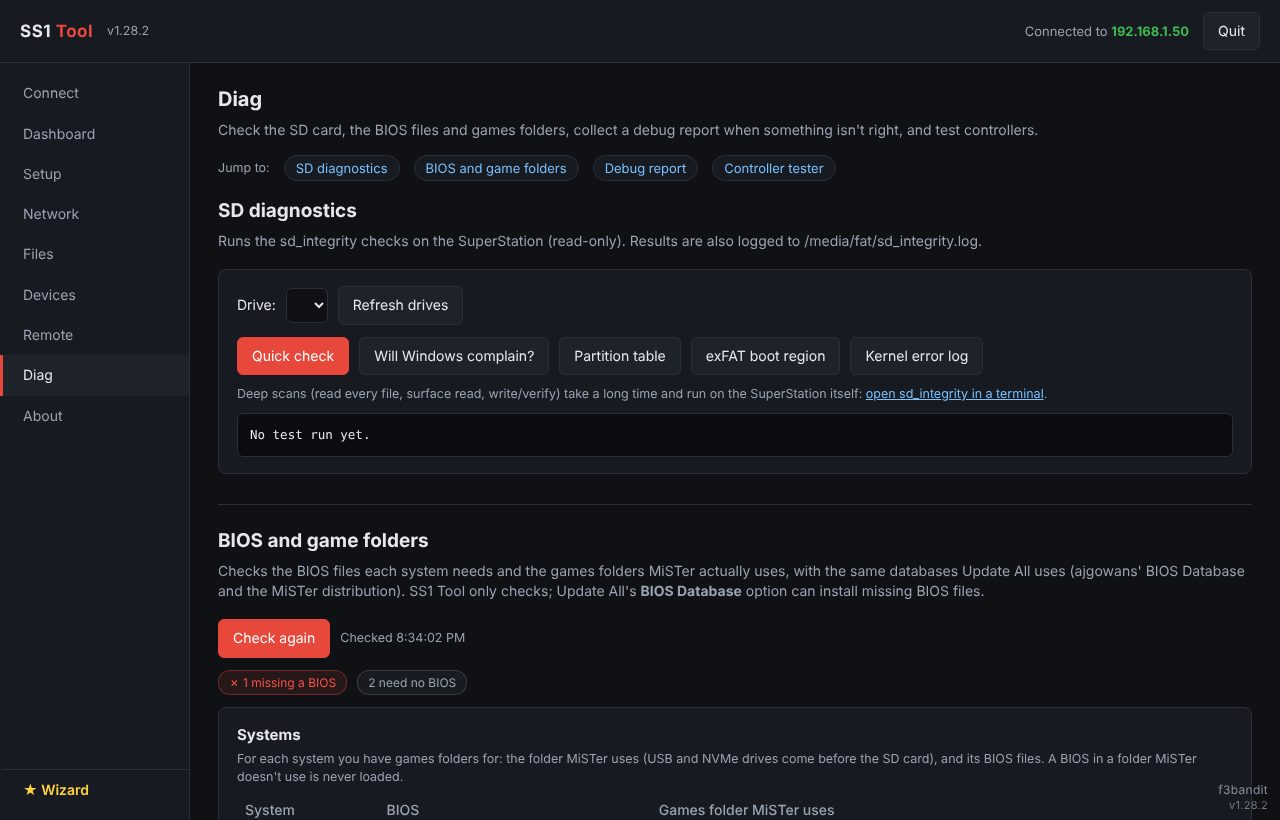
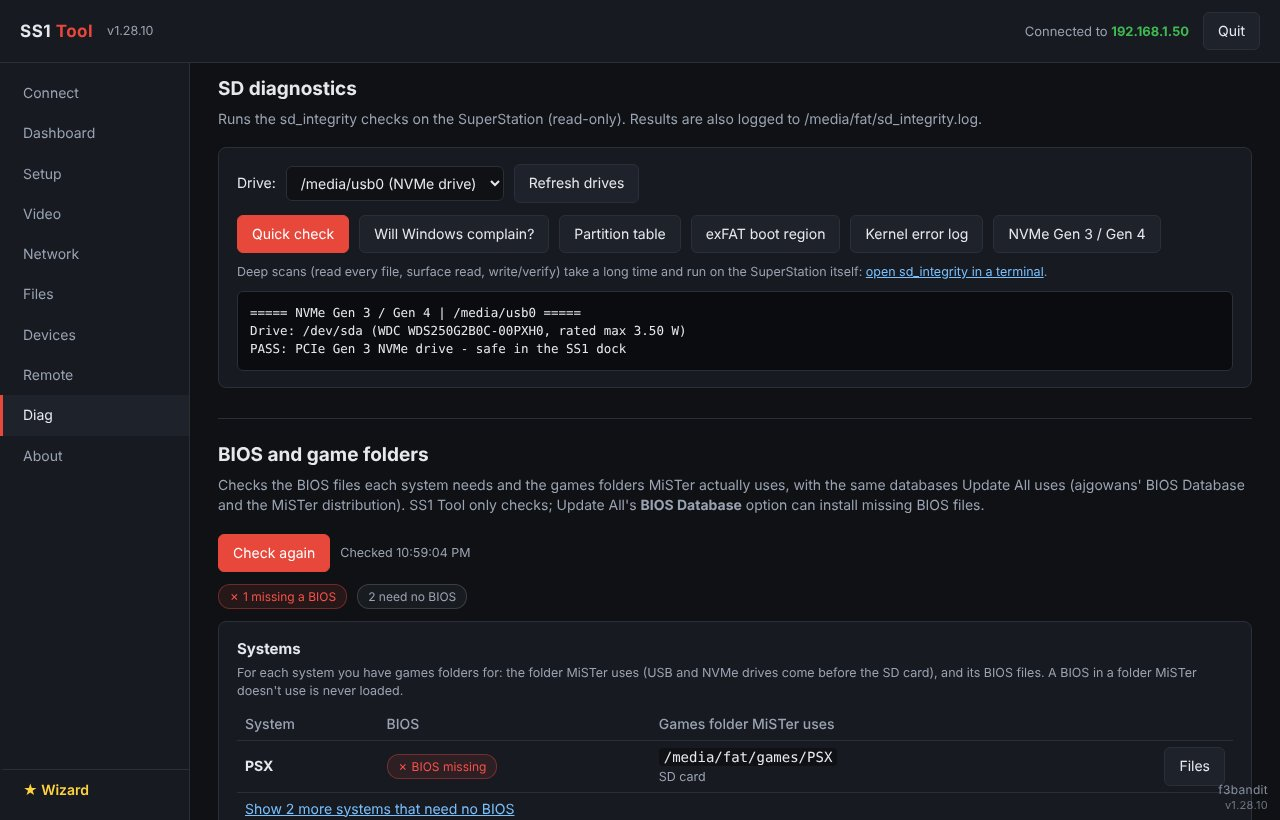
Google Play only: Lemon Squeezy removed; Windows page for SS1 Tool 1.28.10
- EULA 1.2 (2026-10-14): Android is sold only on Google Play (no website
  purchases, license keys or Lemon Squeezy); privacy and refund policies
  updated the same way
- android/latest.json points old test builds to the Play Store
- Windows page: system status screenshot with the NVMe Gen 3 / Gen 4 check,
  new Setup and Diag screenshots, Gen 4 drive warning in the feature list

Claude-Session: https://claude.ai/code/session_01VLHabFJYs6ZU2WP3HXjTGE

diff --git a/pages/legal/eula.html b/pages/legal/eula.html
@@ -2,13 +2,13 @@
 <article class="legal">
 <section class="hero">
  <h1>End User License Agreement</h1>
- <p class="muted">For SS1 Tool for Windows and SS1 Tool for Android · Version <span data-eula-version>1.1 (2026-10-10)</span> · Effective October 10, 2026</p>
+ <p class="muted">For SS1 Tool for Windows and SS1 Tool for Android · Version <span data-eula-version>1.2 (2026-10-14)</span> · Effective October 14, 2026</p>
 </section>
 
 <div class="note"><b>The short version.</b> SS1 Tool is an unofficial tool provided "as is". It changes settings and files on your SuperStation One and can erase SD cards. You use it at your own risk and you are solely responsible for your devices, your data and your backups. Our total liability is limited to what you paid for the app. The full terms below are what apply.</div>
 
 <ol class="toc">
- <li><a href="#agreement">Agreement</a></li><li><a href="#who">Who we are</a></li><li><a href="#unofficial">Unofficial tool, trademarks</a></li><li><a href="#license">Your license</a></li><li><a href="#keys">License keys (Android)</a></li><li><a href="#play">Google Play</a></li><li><a href="#restrictions">What you may not do</a></li><li><a href="#risk">Your responsibility</a></li><li><a href="#content">Third-party content and services</a></li><li><a href="#reports">Reports and logs</a></li><li><a href="#updates">Updates and support</a></li><li><a href="#versions">Supported Android versions</a></li><li><a href="#warranty">No warranty</a></li><li><a href="#liability">Limitation of liability</a></li><li><a href="#indemnity">Indemnity</a></li><li><a href="#termination">Termination</a></li><li><a href="#refunds">Payments and refunds</a></li><li><a href="#law">Governing law</a></li><li><a href="#general">General</a></li><li><a href="#contact">Contact</a></li>
+ <li><a href="#agreement">Agreement</a></li><li><a href="#who">Who we are</a></li><li><a href="#unofficial">Unofficial tool, trademarks</a></li><li><a href="#license">Your license</a></li><li><a href="#keys">Buying on Google Play</a></li><li><a href="#play">Google Play</a></li><li><a href="#restrictions">What you may not do</a></li><li><a href="#risk">Your responsibility</a></li><li><a href="#content">Third-party content and services</a></li><li><a href="#reports">Reports and logs</a></li><li><a href="#updates">Updates and support</a></li><li><a href="#versions">Supported Android versions</a></li><li><a href="#warranty">No warranty</a></li><li><a href="#liability">Limitation of liability</a></li><li><a href="#indemnity">Indemnity</a></li><li><a href="#termination">Termination</a></li><li><a href="#refunds">Payments and refunds</a></li><li><a href="#law">Governing law</a></li><li><a href="#general">General</a></li><li><a href="#contact">Contact</a></li>
 </ol>
 
 <h2 id="agreement">1. Agreement</h2>
@@ -26,22 +26,14 @@
 <p>The Software is licensed, not sold. We and our licensors keep all rights, title and interest in it. Subject to this Agreement, we give you a limited, personal, non-exclusive, non-transferable, revocable license to:</p>
 <ul>
  <li><b>SS1 Tool for Windows</b> (free): install and use it on computers you own or control, for personal, non-commercial use.</li>
- <li><b>SS1 Tool for Android</b> (paid), <b>bought on our website</b>: install and use it on up to <b>3 Android devices you own or control</b>, for personal, non-commercial use, after you pay for it and activate it with your license key.</li>
- <li><b>SS1 Tool for Android</b> (paid), <b>bought on Google Play</b>: install and use it on Android devices signed in to the Google account you bought it with, as Google Play allows, for personal, non-commercial use.</li>
+ <li><b>SS1 Tool for Android</b> (paid, sold only on Google Play): install and use it on Android devices signed in to the Google account you bought it with, as Google Play allows, for personal, non-commercial use.</li>
 </ul>
 <p>Open-source components included in the Software are licensed under their own licenses, which are listed in the Software. Nothing in this Agreement limits your rights under those licenses.</p>
 
-<h2 id="keys">5. License keys (Android, bought on our website)</h2>
-<ul>
- <li>Your license key is for you alone. You may not share, publish, sell or transfer it.</li>
- <li>The app checks your key with our reseller, Lemon Squeezy, when you activate it and about once a week afterwards when your device is online. This sends the key and a device label (such as "Pixel 10"), as described in the <a href="privacy.html">Privacy Policy</a>.</li>
- <li>The app works without an internet connection, but if it hasn't been able to check your key for 30 days, it asks you to connect to the internet once before you can keep using it.</li>
- <li>We may deactivate a key that has been refunded, charged back, shared, or used beyond its device limit, or that was obtained by fraud.</li>
-</ul>
+<h2 id="keys">5. Buying on Google Play</h2><span id="play"></span>
 
-<h3 id="play">Bought on Google Play</h3>
 <ul>
- <li>No license key is used: your purchase is linked to your Google account, and the app gets updates from Google Play.</li>
+ <li>SS1 Tool for Android is sold only on Google Play. No license key is used: your purchase is linked to your Google account, and the app gets updates from Google Play.</li>
  <li>Google Play's own terms (the Google Play Terms of Service) also apply to buying, downloading and updating the app. If they conflict with this Agreement about the purchase itself, Google Play's terms apply. This Agreement is between you and us, not Google, and we, not Google, are responsible for the app.</li>
 </ul>
 
@@ -49,7 +41,7 @@
 <p>Except where the law gives you a right we can't take away, you may not:</p>
 <ul>
  <li>copy, share, distribute, sell, rent, lend or sublicense the Software or SS1 Tool for Android's installation file (APK);</li>
- <li>remove, bypass or tamper with the license check, or help anyone else to;</li>
+ <li>bypass Google Play's purchase or distribution of SS1 Tool for Android, or help anyone else to;</li>
  <li>modify, decompile, reverse engineer or make derivative works of SS1 Tool for Android;</li>
  <li>remove copyright, trademark or license notices;</li>
  <li>use the Software on devices or networks you don't own or aren't allowed to access, or for anything unlawful;</li>
@@ -69,7 +61,7 @@
 <p>Features such as automatic undo of video changes, backups and safety checks are provided to help you, but <b>may not work in every case</b>. You must not rely on them in place of your own backups.</p>
 
 <h2 id="content">8. Third-party content and services</h2>
-<p>The Software can use or download things made by other people: Update All, MiSTer distributions, cores, community scripts, the SS1 SD Card Installer, and services such as GitHub, RetroAchievements, TheGamesDB and Lemon Squeezy. These are provided by their owners under their own terms. We don't control them, we aren't responsible for them, and we make no promises about them. You choose whether to use them.</p>
+<p>The Software can use or download things made by other people: Update All, MiSTer distributions, cores, community scripts, the SS1 SD Card Installer, and services such as GitHub, RetroAchievements, TheGamesDB and Google Play. These are provided by their owners under their own terms. We don't control them, we aren't responsible for them, and we make no promises about them. You choose whether to use them.</p>
 <p>The Software does not include or provide any games, BIOS files or other copyrighted content. You are responsible for having the right to use any such content on your SuperStation.</p>
 
 <h2 id="reports">9. Reports and logs</h2>
@@ -94,10 +86,10 @@
 <p>To the extent allowed by law, you agree to defend, indemnify and hold us harmless from any claims, losses, damages and costs (including reasonable legal fees) brought by a third party that arise from your misuse of the Software, your breach of this Agreement, or your violation of any law or anyone else's rights.</p>
 
 <h2 id="termination">15. Termination</h2>
-<p>This Agreement applies until it ends. You may end it at any time by deleting the Software. It ends automatically, without notice, if you break it; we may also deactivate your license key in that case. When it ends, you must stop using and delete the Software. Sections 3, 6–9 and 12–18 continue to apply after it ends.</p>
+<p>This Agreement applies until it ends. You may end it at any time by deleting the Software. It ends automatically, without notice, if you break it. When it ends, you must stop using and delete the Software. Sections 3, 6–9 and 12–18 continue to apply after it ends.</p>
 
 <h2 id="refunds">16. Payments and refunds</h2>
-<p>On our website, SS1 Tool for Android is sold through our reseller and merchant of record, <b>Lemon Squeezy</b>, which handles payment, sales tax and VAT under its own terms. On Google Play, Google handles payment and taxes under Google Play's terms. Refunds are covered by our <a href="refunds.html">Refund Policy</a>. A refund ends your license; for a website purchase it also deactivates your key.</p>
+<p>SS1 Tool for Android is sold only on Google Play; Google handles payment and taxes under Google Play's terms. Refunds are covered by our <a href="refunds.html">Refund Policy</a>. A refund ends your license.</p>
 
 <h2 id="law">17. Governing law</h2>
 <p>This Agreement is governed by the laws of the State of Ohio, USA, without regard to its conflict-of-law rules. Any dispute will be brought in the state or federal courts located in Ohio, and you and we agree to their jurisdiction. If you are a consumer living outside the USA, you keep any protections given to you by the mandatory laws of the country you live in. The United Nations Convention on Contracts for the International Sale of Goods does not apply.</p>
@@ -113,5 +105,5 @@
 </ul>
 
 <h2 id="contact">19. Contact</h2>
-<p>f3bandit, trading as F3 Digital Systems · Questions about this Agreement: email <a href="mailto:f3.digital.systems@gmail.com">f3.digital.systems@gmail.com</a>, or open an issue at <a href="https://github.com/f3bandit/ss1_tool/issues">github.com/f3bandit/ss1_tool/issues</a>. For orders, use the contact link in your Lemon Squeezy receipt.</p>
+<p>f3bandit, trading as F3 Digital Systems · Questions about this Agreement: email <a href="mailto:f3.digital.systems@gmail.com">f3.digital.systems@gmail.com</a>, or open an issue at <a href="https://github.com/f3bandit/ss1_tool/issues">github.com/f3bandit/ss1_tool/issues</a>. For a Google Play order, include its order number (it starts with GPA.).</p>
 </article>

diff --git a/legal/eula.html b/legal/eula.html
@@ -18,13 +18,13 @@
 <article class="legal">
 <section class="hero">
  <h1>End User License Agreement</h1>
- <p class="muted">For SS1 Tool for Windows and SS1 Tool for Android · Version <span data-eula-version>1.1 (2026-10-10)</span> · Effective October 10, 2026</p>
+ <p class="muted">For SS1 Tool for Windows and SS1 Tool for Android · Version <span data-eula-version>1.2 (2026-10-14)</span> · Effective October 14, 2026</p>
 </section>
 
 <div class="note"><b>The short version.</b> SS1 Tool is an unofficial tool provided "as is". It changes settings and files on your SuperStation One and can erase SD cards. You use it at your own risk and you are solely responsible for your devices, your data and your backups. Our total liability is limited to what you paid for the app. The full terms below are what apply.</div>
 
 <ol class="toc">
- <li><a href="#agreement">Agreement</a></li><li><a href="#who">Who we are</a></li><li><a href="#unofficial">Unofficial tool, trademarks</a></li><li><a href="#license">Your license</a></li><li><a href="#keys">License keys (Android)</a></li><li><a href="#play">Google Play</a></li><li><a href="#restrictions">What you may not do</a></li><li><a href="#risk">Your responsibility</a></li><li><a href="#content">Third-party content and services</a></li><li><a href="#reports">Reports and logs</a></li><li><a href="#updates">Updates and support</a></li><li><a href="#versions">Supported Android versions</a></li><li><a href="#warranty">No warranty</a></li><li><a href="#liability">Limitation of liability</a></li><li><a href="#indemnity">Indemnity</a></li><li><a href="#termination">Termination</a></li><li><a href="#refunds">Payments and refunds</a></li><li><a href="#law">Governing law</a></li><li><a href="#general">General</a></li><li><a href="#contact">Contact</a></li>
+ <li><a href="#agreement">Agreement</a></li><li><a href="#who">Who we are</a></li><li><a href="#unofficial">Unofficial tool, trademarks</a></li><li><a href="#license">Your license</a></li><li><a href="#keys">Buying on Google Play</a></li><li><a href="#play">Google Play</a></li><li><a href="#restrictions">What you may not do</a></li><li><a href="#risk">Your responsibility</a></li><li><a href="#content">Third-party content and services</a></li><li><a href="#reports">Reports and logs</a></li><li><a href="#updates">Updates and support</a></li><li><a href="#versions">Supported Android versions</a></li><li><a href="#warranty">No warranty</a></li><li><a href="#liability">Limitation of liability</a></li><li><a href="#indemnity">Indemnity</a></li><li><a href="#termination">Termination</a></li><li><a href="#refunds">Payments and refunds</a></li><li><a href="#law">Governing law</a></li><li><a href="#general">General</a></li><li><a href="#contact">Contact</a></li>
 </ol>
 
 <h2 id="agreement">1. Agreement</h2>
@@ -42,16 +42,14 @@
 <p>The Software is licensed, not sold. We and our licensors keep all rights, title and interest in it. Subject to this Agreement, we give you a limited, personal, non-exclusive, non-transferable, revocable license to:</p>
 <ul>
  <li><b>SS1 Tool for Windows</b> (free): install and use it on computers you own or control, for personal, non-commercial use.</li>
- <li><b>SS1 Tool for Android</b> (paid), <b>bought on our website</b>: install and use it on up to <b>3 Android devices you own or control</b>, for personal, non-commercial use, after you pay for it and activate it with your license key.</li>
- <li><b>SS1 Tool for Android</b> (paid), <b>bought on Google Play</b>: install and use it on Android devices signed in to the Google account you bought it with, as Google Play allows, for personal, non-commercial use.</li>
+ <li><b>SS1 Tool for Android</b> (paid, sold only on Google Play): install and use it on Android devices signed in to the Google account you bought it with, as Google Play allows, for personal, non-commercial use.</li>
 </ul>
 <p>Open-source components included in the Software are licensed under their own licenses, which are listed in the Software. Nothing in this Agreement limits your rights under those licenses.</p>
 
-<h2 id="keys">5. License keys (Android)</h2>
+<h2 id="keys">5. Buying on Google Play</h2><span id="play"></span>
 
-<h3 id="play">Bought on Google Play</h3>
 <ul>
- <li>No license key is used: your purchase is linked to your Google account, and the app gets updates from Google Play.</li>
+ <li>SS1 Tool for Android is sold only on Google Play. No license key is used: your purchase is linked to your Google account, and the app gets updates from Google Play.</li>
  <li>Google Play's own terms (the Google Play Terms of Service) also apply to buying, downloading and updating the app. If they conflict with this Agreement about the purchase itself, Google Play's terms apply. This Agreement is between you and us, not Google, and we, not Google, are responsible for the app.</li>
 </ul>
 
@@ -59,7 +57,7 @@
 <p>Except where the law gives you a right we can't take away, you may not:</p>
 <ul>
  <li>copy, share, distribute, sell, rent, lend or sublicense the Software or SS1 Tool for Android's installation file (APK);</li>
- <li>remove, bypass or tamper with the license check, or help anyone else to;</li>
+ <li>bypass Google Play's purchase or distribution of SS1 Tool for Android, or help anyone else to;</li>
  <li>modify, decompile, reverse engineer or make derivative works of SS1 Tool for Android;</li>
  <li>remove copyright, trademark or license notices;</li>
  <li>use the Software on devices or networks you don't own or aren't allowed to access, or for anything unlawful;</li>
@@ -79,7 +77,7 @@
 <p>Features such as automatic undo of video changes, backups and safety checks are provided to help you, but <b>may not work in every case</b>. You must not rely on them in place of your own backups.</p>
 
 <h2 id="content">8. Third-party content and services</h2>
-<p>The Software can use or download things made by other people: Update All, MiSTer distributions, cores, community scripts, the SS1 SD Card Installer, and services such as GitHub, RetroAchievements, TheGamesDB and Lemon Squeezy. These are provided by their owners under their own terms. We don't control them, we aren't responsible for them, and we make no promises about them. You choose whether to use them.</p>
+<p>The Software can use or download things made by other people: Update All, MiSTer distributions, cores, community scripts, the SS1 SD Card Installer, and services such as GitHub, RetroAchievements, TheGamesDB and Google Play. These are provided by their owners under their own terms. We don't control them, we aren't responsible for them, and we make no promises about them. You choose whether to use them.</p>
 <p>The Software does not include or provide any games, BIOS files or other copyrighted content. You are responsible for having the right to use any such content on your SuperStation.</p>
 
 <h2 id="reports">9. Reports and logs</h2>
@@ -104,10 +102,10 @@
 <p>To the extent allowed by law, you agree to defend, indemnify and hold us harmless from any claims, losses, damages and costs (including reasonable legal fees) brought by a third party that arise from your misuse of the Software, your breach of this Agreement, or your violation of any law or anyone else's rights.</p>
 
 <h2 id="termination">15. Termination</h2>
-<p>This Agreement applies until it ends. You may end it at any time by deleting the Software. It ends automatically, without notice, if you break it; we may also deactivate your license key in that case. When it ends, you must stop using and delete the Software. Sections 3, 6–9 and 12–18 continue to apply after it ends.</p>
+<p>This Agreement applies until it ends. You may end it at any time by deleting the Software. It ends automatically, without notice, if you break it. When it ends, you must stop using and delete the Software. Sections 3, 6–9 and 12–18 continue to apply after it ends.</p>
 
 <h2 id="refunds">16. Payments and refunds</h2>
-<p>On our website, SS1 Tool for Android is sold through our reseller and merchant of record, <b>Lemon Squeezy</b>, which handles payment, sales tax and VAT under its own terms. On Google Play, Google handles payment and taxes under Google Play's terms. Refunds are covered by our <a href="refunds.html">Refund Policy</a>. A refund ends your license; for a website purchase it also deactivates your key.</p>
+<p>SS1 Tool for Android is sold only on Google Play; Google handles payment and taxes under Google Play's terms. Refunds are covered by our <a href="refunds.html">Refund Policy</a>. A refund ends your license.</p>
 
 <h2 id="law">17. Governing law</h2>
 <p>This Agreement is governed by the laws of the State of Ohio, USA, without regard to its conflict-of-law rules. Any dispute will be brought in the state or federal courts located in Ohio, and you and we agree to their jurisdiction. If you are a consumer living outside the USA, you keep any protections given to you by the mandatory laws of the country you live in. The United Nations Convention on Contracts for the International Sale of Goods does not apply.</p>
@@ -123,7 +121,7 @@
 </ul>
 
 <h2 id="contact">19. Contact</h2>
-<p>f3bandit, trading as F3 Digital Systems · Questions about this Agreement: email <a href="mailto:f3.digital.systems@gmail.com">f3.digital.systems@gmail.com</a>, or open an issue at <a href="https://github.com/f3bandit/ss1_tool/issues">github.com/f3bandit/ss1_tool/issues</a>. For orders, use the contact link in your Lemon Squeezy receipt.</p>
+<p>f3bandit, trading as F3 Digital Systems · Questions about this Agreement: email <a href="mailto:f3.digital.systems@gmail.com">f3.digital.systems@gmail.com</a>, or open an issue at <a href="https://github.com/f3bandit/ss1_tool/issues">github.com/f3bandit/ss1_tool/issues</a>. For a Google Play order, include its order number (it starts with GPA.).</p>
 </article>
 
 </main>

diff --git a/legal/privacy.html b/legal/privacy.html
@@ -18,7 +18,7 @@
 <article class="legal">
 <section class="hero">
  <h1>Privacy Policy</h1>
- <p class="muted">For SS1 Tool for Windows, SS1 Tool for Android and this website · Effective October 10, 2026</p>
+ <p class="muted">For SS1 Tool for Windows, SS1 Tool for Android and this website · Effective October 14, 2026</p>
 </section>
 
 <div class="note info"><b>The short version.</b> We will never sell, rent or trade your data. The apps have no ads, no analytics and no tracking, and they never collect personal data from your phone or PC. They talk to your SuperStation over your own network, and only go to the internet for features you use. Reports are never sent automatically.</div>
@@ -46,11 +46,9 @@
 <ul>
  <li><b>Your SuperStation One</b>, over your home network (SSH), with the login you enter: to read its status and make the changes you ask for. <b>Find my SuperStation</b> reads the SSH greeting and network name of devices on your local network; it never tries to sign in to them.</li>
  <li><b>GitHub</b> (operated by GitHub, Inc.): the apps read the Linux update advisory, check for SS1 Tool updates (Windows), and download Update All, scripts, the SD Card Installer and the MiSTer and BIOS databases when you use those features. GitHub sees your IP address, as with any website.</li>
- <li><b>This website</b> (ss1-tools.github.io, hosted on GitHub Pages): when SS1 Tool for Android (bought on our website) opens, and when you tap <b>Check for updates</b>, it reads a small file listing the latest version. Nothing about you or your device is sent.</li>
  <li><b>RetroAchievements</b> (retroachievements.org): only when you test or save a RetroAchievements login, the username and password you entered are sent to RetroAchievements to check them. The login token it returns isn't kept.</li>
  <li><b>TheGamesDB</b>: only when you test an API key you entered, the key is sent to TheGamesDB.</li>
- <li><b>Google Play</b> (SS1 Tool for Android bought on Google Play): Google handles the purchase, installs and updates under Google's privacy policy. The app doesn't contact Lemon Squeezy or our website for license or update checks; Google Play's own services on your device may, as they do for every Play app.</li>
- <li><b>Lemon Squeezy</b> (SS1 Tool for Android bought on our website only): when you activate your license, and about once a week afterwards to check it (at least once every 30 days), the app sends your license key, a device label (your phone's model name, such as "Pixel 10") and an activation ID to Lemon Squeezy. Lemon Squeezy tells the app whether the key is valid.</li>
+ <li><b>Google Play</b> (SS1 Tool for Android is sold only on Google Play): Google handles the purchase, installs and updates under Google's privacy policy. The app doesn't contact our website or any other store for license or update checks; Google Play's own services on your device may, as they do for every Play app.</li>
 </ul>
 <p>Those services handle data under their own privacy policies.</p>
 
@@ -59,18 +57,16 @@
 <p>The apps remove passwords, keys, network names and IP and MAC addresses they recognise, and show you the whole report before you save or share it. If you post a report on GitHub, it becomes public under GitHub's terms. Please read reports before sharing them.</p>
 
 <h2>Buying SS1 Tool for Android</h2>
-<p>On Google Play, Google processes your purchase under its own privacy policy. We receive the order details Google shares with developers (such as the order number, country and price), and use them only for your order, refunds and support.</p>
-<p>On our website:</p>
-<p>Purchases are handled by <b>Lemon Squeezy</b>, our reseller and merchant of record. Lemon Squeezy collects your name, email address, billing country and payment details to process the order, under its own privacy policy. We receive the order details Lemon Squeezy shares with sellers (such as your name, email address, country and order) so we can provide your license, support and refunds. We don't receive your full card details. We use this information only for your order and support, and keep it as long as needed for that and for tax and legal records.</p>
+<p>SS1 Tool for Android is sold only on Google Play. Google processes your purchase under its own privacy policy. We receive the order details Google shares with developers (such as the order number, country and price), and use them only for your order, refunds and support.</p>
 
 <h2>This website</h2>
-<p>This website is hosted on GitHub Pages. It uses no cookies, analytics or trackers. GitHub may log visitors' IP addresses for security, under GitHub's privacy statement. The agreement boxes on this site aren't stored; when you buy, the agreement version you accepted is added to your Lemon Squeezy order.</p>
+<p>This website is hosted on GitHub Pages. It uses no cookies, analytics or trackers. GitHub may log visitors' IP addresses for security, under GitHub's privacy statement. The agreement boxes on this site aren't stored.</p>
 
 <h2>Children</h2>
 <p>The apps aren't directed at children under 13, and we don't knowingly collect data from children.</p>
 
 <h2>Your rights</h2>
-<p>Depending on where you live, you may have rights to access, correct or delete personal data about you. Because the apps keep data only on your device, you can delete it yourself. For order data we hold, contact us and we'll help. You can also contact Lemon Squeezy about data it holds.</p>
+<p>Depending on where you live, you may have rights to access, correct or delete personal data about you. Because the apps keep data only on your device, you can delete it yourself. For order data we hold, contact us and we'll help. You can also contact Google about data Google Play holds.</p>
 
 <h2>Security</h2>
 <p>The apps only accept connections from the device they run on, protected by a random session token. SuperStation connections use SSH. Use the apps only on networks you trust.</p>
@@ -79,7 +75,7 @@
 <p>If we change this policy, we'll update the date at the top. If a change affects what the apps send or where, we'll say so in the release notes.</p>
 
 <h2>Contact</h2>
-<p>f3bandit, trading as F3 Digital Systems · Privacy questions: email <a href="mailto:f3.digital.systems@gmail.com">f3.digital.systems@gmail.com</a>, or open an issue at <a href="https://github.com/f3bandit/ss1_tool/issues">github.com/f3bandit/ss1_tool/issues</a>, or use the contact link in your Lemon Squeezy receipt for anything about your order.</p>
+<p>f3bandit, trading as F3 Digital Systems · Privacy questions: email <a href="mailto:f3.digital.systems@gmail.com">f3.digital.systems@gmail.com</a>, or open an issue at <a href="https://github.com/f3bandit/ss1_tool/issues">github.com/f3bandit/ss1_tool/issues</a>. For a Google Play order, include its order number (it starts with GPA.).</p>
 </article>
 
 </main>

diff --git a/pages/legal/privacy.html b/pages/legal/privacy.html
@@ -2,7 +2,7 @@
 <article class="legal">
 <section class="hero">
  <h1>Privacy Policy</h1>
- <p class="muted">For SS1 Tool for Windows, SS1 Tool for Android and this website · Effective October 10, 2026</p>
+ <p class="muted">For SS1 Tool for Windows, SS1 Tool for Android and this website · Effective October 14, 2026</p>
 </section>
 
 <div class="note info"><b>The short version.</b> We will never sell, rent or trade your data. The apps have no ads, no analytics and no tracking, and they never collect personal data from your phone or PC. They talk to your SuperStation over your own network, and only go to the internet for features you use. Reports are never sent automatically.</div>
@@ -30,11 +30,9 @@
 <ul>
  <li><b>Your SuperStation One</b>, over your home network (SSH), with the login you enter: to read its status and make the changes you ask for. <b>Find my SuperStation</b> reads the SSH greeting and network name of devices on your local network; it never tries to sign in to them.</li>
  <li><b>GitHub</b> (operated by GitHub, Inc.): the apps read the Linux update advisory, check for SS1 Tool updates (Windows), and download Update All, scripts, the SD Card Installer and the MiSTer and BIOS databases when you use those features. GitHub sees your IP address, as with any website.</li>
- <li><b>This website</b> (ss1-tools.github.io, hosted on GitHub Pages): when SS1 Tool for Android (bought on our website) opens, and when you tap <b>Check for updates</b>, it reads a small file listing the latest version. Nothing about you or your device is sent.</li>
  <li><b>RetroAchievements</b> (retroachievements.org): only when you test or save a RetroAchievements login, the username and password you entered are sent to RetroAchievements to check them. The login token it returns isn't kept.</li>
  <li><b>TheGamesDB</b>: only when you test an API key you entered, the key is sent to TheGamesDB.</li>
- <li><b>Google Play</b> (SS1 Tool for Android bought on Google Play): Google handles the purchase, installs and updates under Google's privacy policy. The app doesn't contact Lemon Squeezy or our website for license or update checks; Google Play's own services on your device may, as they do for every Play app.</li>
- <li><b>Lemon Squeezy</b> (SS1 Tool for Android bought on our website only): when you activate your license, and about once a week afterwards to check it (at least once every 30 days), the app sends your license key, a device label (your phone's model name, such as "Pixel 10") and an activation ID to Lemon Squeezy. Lemon Squeezy tells the app whether the key is valid.</li>
+ <li><b>Google Play</b> (SS1 Tool for Android is sold only on Google Play): Google handles the purchase, installs and updates under Google's privacy policy. The app doesn't contact our website or any other store for license or update checks; Google Play's own services on your device may, as they do for every Play app.</li>
 </ul>
 <p>Those services handle data under their own privacy policies.</p>
 
@@ -43,18 +41,16 @@
 <p>The apps remove passwords, keys, network names and IP and MAC addresses they recognise, and show you the whole report before you save or share it. If you post a report on GitHub, it becomes public under GitHub's terms. Please read reports before sharing them.</p>
 
 <h2>Buying SS1 Tool for Android</h2>
-<p>On Google Play, Google processes your purchase under its own privacy policy. We receive the order details Google shares with developers (such as the order number, country and price), and use them only for your order, refunds and support.</p>
-<p>On our website:</p>
-<p>Purchases are handled by <b>Lemon Squeezy</b>, our reseller and merchant of record. Lemon Squeezy collects your name, email address, billing country and payment details to process the order, under its own privacy policy. We receive the order details Lemon Squeezy shares with sellers (such as your name, email address, country and order) so we can provide your license, support and refunds. We don't receive your full card details. We use this information only for your order and support, and keep it as long as needed for that and for tax and legal records.</p>
+<p>SS1 Tool for Android is sold only on Google Play. Google processes your purchase under its own privacy policy. We receive the order details Google shares with developers (such as the order number, country and price), and use them only for your order, refunds and support.</p>
 
 <h2>This website</h2>
-<p>This website is hosted on GitHub Pages. It uses no cookies, analytics or trackers. GitHub may log visitors' IP addresses for security, under GitHub's privacy statement. The agreement boxes on this site aren't stored; when you buy, the agreement version you accepted is added to your Lemon Squeezy order.</p>
+<p>This website is hosted on GitHub Pages. It uses no cookies, analytics or trackers. GitHub may log visitors' IP addresses for security, under GitHub's privacy statement. The agreement boxes on this site aren't stored.</p>
 
 <h2>Children</h2>
 <p>The apps aren't directed at children under 13, and we don't knowingly collect data from children.</p>
 
 <h2>Your rights</h2>
-<p>Depending on where you live, you may have rights to access, correct or delete personal data about you. Because the apps keep data only on your device, you can delete it yourself. For order data we hold, contact us and we'll help. You can also contact Lemon Squeezy about data it holds.</p>
+<p>Depending on where you live, you may have rights to access, correct or delete personal data about you. Because the apps keep data only on your device, you can delete it yourself. For order data we hold, contact us and we'll help. You can also contact Google about data Google Play holds.</p>
 
 <h2>Security</h2>
 <p>The apps only accept connections from the device they run on, protected by a random session token. SuperStation connections use SSH. Use the apps only on networks you trust.</p>
@@ -63,5 +59,5 @@
 <p>If we change this policy, we'll update the date at the top. If a change affects what the apps send or where, we'll say so in the release notes.</p>
 
 <h2>Contact</h2>
-<p>f3bandit, trading as F3 Digital Systems · Privacy questions: email <a href="mailto:f3.digital.systems@gmail.com">f3.digital.systems@gmail.com</a>, or open an issue at <a href="https://github.com/f3bandit/ss1_tool/issues">github.com/f3bandit/ss1_tool/issues</a>, or use the contact link in your Lemon Squeezy receipt for anything about your order.</p>
+<p>f3bandit, trading as F3 Digital Systems · Privacy questions: email <a href="mailto:f3.digital.systems@gmail.com">f3.digital.systems@gmail.com</a>, or open an issue at <a href="https://github.com/f3bandit/ss1_tool/issues">github.com/f3bandit/ss1_tool/issues</a>. For a Google Play order, include its order number (it starts with GPA.).</p>
 </article>

diff --git a/legal/refunds.html b/legal/refunds.html
@@ -18,20 +18,14 @@
 <article class="legal">
 <section class="hero">
  <h1>Refund Policy</h1>
- <p class="muted">For SS1 Tool for Android · Effective October 10, 2026</p>
+ <p class="muted">For SS1 Tool for Android · Effective October 14, 2026</p>
 </section>
 
 <h2>14 days, no questions asked</h2>
 <p>If SS1 Tool for Android isn't right for you, you can get a full refund within <b>14 days</b> of buying it. You don't need to give a reason.</p>
 
-<h2>How to ask for a refund (bought on our website)</h2>
-<ol>
- <li>Open your purchase receipt email from Lemon Squeezy, or your order on Lemon Squeezy's <a href="https://app.lemonsqueezy.com/my-orders">My Orders</a> page.</li>
- <li>Use the contact or support link there and ask for a refund, with your order number.</li>
-</ol>
-<p>Your receipt shows the seller as Lemon Squeezy, on behalf of our store, <b>F3 Digital Systems</b>. Refunds go back to the payment method you used. Lemon Squeezy processes them; how long the money takes to arrive depends on your bank or card.</p>
-
-<h2>Bought on Google Play</h2>
+<h2>How to ask for a refund</h2>
+<p>SS1 Tool for Android is sold only on Google Play.</p>
 <ul>
  <li>Within 48 hours of buying, you can usually refund it yourself on Google Play: open the app's page in the Play Store or your <a href="https://play.google.com/store/account/orderhistory">Google Play order history</a> and choose Refund.</li>
  <li>After that, and up to 14 days after buying, <a href="../support.html">contact us</a> with your Google Play order number (it starts with GPA.) and we'll refund it through Google Play.</li>
@@ -39,13 +33,13 @@
 </ul>
 
 <h2>After a refund</h2>
-<p>A refund ends your license. For a website purchase the license key is deactivated and the app stops working on your devices; for a Google Play purchase Google Play removes it from your library. Please uninstall it.</p>
+<p>A refund ends your license: Google Play removes the app from your library. Please uninstall it.</p>
 
 <h2>After 14 days</h2>
 <p>After 14 days, purchases are final, except where the law where you live gives you a right to a refund. If the app doesn't work on your device, please <a href="../support.html">report it</a> first: we'd like to fix it.</p>
 
 <h2>Chargebacks</h2>
-<p>Please contact us before disputing a charge with your bank; we'll sort it out. A chargeback deactivates the license key.</p>
+<p>Please contact us before disputing a charge with your bank or with Google; we'll sort it out.</p>
 
 <h2>SS1 Tool for Windows</h2>
 <p>SS1 Tool for Windows is free, so there's nothing to refund.</p>

diff --git a/pages/legal/refunds.html b/pages/legal/refunds.html
@@ -2,20 +2,14 @@
 <article class="legal">
 <section class="hero">
  <h1>Refund Policy</h1>
- <p class="muted">For SS1 Tool for Android · Effective October 10, 2026</p>
+ <p class="muted">For SS1 Tool for Android · Effective October 14, 2026</p>
 </section>
 
 <h2>14 days, no questions asked</h2>
 <p>If SS1 Tool for Android isn't right for you, you can get a full refund within <b>14 days</b> of buying it. You don't need to give a reason.</p>
 
-<h2>How to ask for a refund (bought on our website)</h2>
-<ol>
- <li>Open your purchase receipt email from Lemon Squeezy, or your order on Lemon Squeezy's <a href="https://app.lemonsqueezy.com/my-orders">My Orders</a> page.</li>
- <li>Use the contact or support link there and ask for a refund, with your order number.</li>
-</ol>
-<p>Your receipt shows the seller as Lemon Squeezy, on behalf of our store, <b>F3 Digital Systems</b>. Refunds go back to the payment method you used. Lemon Squeezy processes them; how long the money takes to arrive depends on your bank or card.</p>
-
-<h2>Bought on Google Play</h2>
+<h2>How to ask for a refund</h2>
+<p>SS1 Tool for Android is sold only on Google Play.</p>
 <ul>
  <li>Within 48 hours of buying, you can usually refund it yourself on Google Play: open the app's page in the Play Store or your <a href="https://play.google.com/store/account/orderhistory">Google Play order history</a> and choose Refund.</li>
  <li>After that, and up to 14 days after buying, <a href="../support.html">contact us</a> with your Google Play order number (it starts with GPA.) and we'll refund it through Google Play.</li>
@@ -23,13 +17,13 @@
 </ul>
 
 <h2>After a refund</h2>
-<p>A refund ends your license. For a website purchase the license key is deactivated and the app stops working on your devices; for a Google Play purchase Google Play removes it from your library. Please uninstall it.</p>
+<p>A refund ends your license: Google Play removes the app from your library. Please uninstall it.</p>
 
 <h2>After 14 days</h2>
 <p>After 14 days, purchases are final, except where the law where you live gives you a right to a refund. If the app doesn't work on your device, please <a href="../support.html">report it</a> first: we'd like to fix it.</p>
 
 <h2>Chargebacks</h2>
-<p>Please contact us before disputing a charge with your bank; we'll sort it out. A chargeback deactivates the license key.</p>
+<p>Please contact us before disputing a charge with your bank or with Google; we'll sort it out.</p>
 
 <h2>SS1 Tool for Windows</h2>
 <p>SS1 Tool for Windows is free, so there's nothing to refund.</p>

diff --git a/windows.html b/windows.html
@@ -23,8 +23,9 @@
 <div class="shots">
  <figure><img src="assets/img/win/wizard.jpg" alt="The setup wizard" loading="lazy"><figcaption>★ Wizard: first-time setup, step by step</figcaption></figure>
  <figure><img src="assets/img/win/video-try.jpg" alt="Trying a video setting" loading="lazy"><figcaption>Video: try a setting, keep it or it goes back by itself</figcaption></figure>
+ <figure><img src="assets/img/win/connect.jpg" alt="System status with the NVMe drive check" loading="lazy"><figcaption>Connect: system status, including the NVMe Gen 3 / Gen 4 check</figcaption></figure>
  <figure><img src="assets/img/win/setup.jpg" alt="Setup page" loading="lazy"><figcaption>Setup: scripts, Update All and MiSTer settings with backups</figcaption></figure>
- <figure><img src="assets/img/win/diag.jpg" alt="Diagnostics page" loading="lazy"><figcaption>Diag: SD card checks, BIOS check and debug report</figcaption></figure>
+ <figure><img src="assets/img/win/diag.jpg" alt="Diagnostics page" loading="lazy"><figcaption>Diag: SD card and NVMe checks, BIOS check and debug report</figcaption></figure>
  <figure><img src="assets/img/win/padtest.jpg" alt="Controller tester" loading="lazy"><figcaption>Controller tester: every button and stick, live</figcaption></figure>
  <figure><img src="assets/img/win/remote.jpg" alt="Remote control" loading="lazy"><figcaption>Remote: control the SuperStation from your PC</figcaption></figure>
 </div>
@@ -33,7 +34,7 @@
 <div class="feat">
  <div><b>Setup</b>SS1 scripts, Update All on the stable lane, Samba, scraper and RetroAchievements accounts, and the MiSTer settings editor with backups.</div>
  <div><b>Video</b>Every video setting explained, a wizard for how your TV, monitor or CRT is connected, a symptom fixer, and safe try-and-keep.</div>
- <div><b>SD card</b>Flash the official SS1 SD Card Installer, check partitions and exFAT health, deep read/write tests, and full SD backups.</div>
+ <div><b>SD card and NVMe</b>Flash the official SS1 SD Card Installer, check partitions and exFAT health, deep read/write tests, and full SD backups. Warns about PCIe Gen 4 NVMe drives, which cause sudden reboots, boot and file system problems in the SS1 dock.</div>
  <div><b>Network</b>Ethernet details, WiFi setup, and playing games from a network share, including one shared from your PC.</div>
  <div><b>Devices</b>USB devices, Bluetooth pairing and backups, controller mappings, and a live controller tester.</div>
  <div><b>Support</b>One debug report for the Taki Udon Discord, with passwords, WiFi names and addresses removed.</div>

diff --git a/pages/windows.html b/pages/windows.html
@@ -7,8 +7,9 @@
 <div class="shots">
  <figure><img src="assets/img/win/wizard.jpg" alt="The setup wizard" loading="lazy"><figcaption>★ Wizard: first-time setup, step by step</figcaption></figure>
  <figure><img src="assets/img/win/video-try.jpg" alt="Trying a video setting" loading="lazy"><figcaption>Video: try a setting, keep it or it goes back by itself</figcaption></figure>
+ <figure><img src="assets/img/win/connect.jpg" alt="System status with the NVMe drive check" loading="lazy"><figcaption>Connect: system status, including the NVMe Gen 3 / Gen 4 check</figcaption></figure>
  <figure><img src="assets/img/win/setup.jpg" alt="Setup page" loading="lazy"><figcaption>Setup: scripts, Update All and MiSTer settings with backups</figcaption></figure>
- <figure><img src="assets/img/win/diag.jpg" alt="Diagnostics page" loading="lazy"><figcaption>Diag: SD card checks, BIOS check and debug report</figcaption></figure>
+ <figure><img src="assets/img/win/diag.jpg" alt="Diagnostics page" loading="lazy"><figcaption>Diag: SD card and NVMe checks, BIOS check and debug report</figcaption></figure>
  <figure><img src="assets/img/win/padtest.jpg" alt="Controller tester" loading="lazy"><figcaption>Controller tester: every button and stick, live</figcaption></figure>
  <figure><img src="assets/img/win/remote.jpg" alt="Remote control" loading="lazy"><figcaption>Remote: control the SuperStation from your PC</figcaption></figure>
 </div>
@@ -17,7 +18,7 @@
 <div class="feat">
  <div><b>Setup</b>SS1 scripts, Update All on the stable lane, Samba, scraper and RetroAchievements accounts, and the MiSTer settings editor with backups.</div>
  <div><b>Video</b>Every video setting explained, a wizard for how your TV, monitor or CRT is connected, a symptom fixer, and safe try-and-keep.</div>
- <div><b>SD card</b>Flash the official SS1 SD Card Installer, check partitions and exFAT health, deep read/write tests, and full SD backups.</div>
+ <div><b>SD card and NVMe</b>Flash the official SS1 SD Card Installer, check partitions and exFAT health, deep read/write tests, and full SD backups. Warns about PCIe Gen 4 NVMe drives, which cause sudden reboots, boot and file system problems in the SS1 dock.</div>
  <div><b>Network</b>Ethernet details, WiFi setup, and playing games from a network share, including one shared from your PC.</div>
  <div><b>Devices</b>USB devices, Bluetooth pairing and backups, controller mappings, and a live controller tester.</div>
  <div><b>Support</b>One debug report for the Taki Udon Discord, with passwords, WiFi names and addresses removed.</div>

diff --git a/assets/site.js b/assets/site.js
@@ -10,7 +10,7 @@ const SITE = {
   testerPlayLink: "https://play.google.com/apps/testing/com.f3bandit.ss1tool",
   androidPrice: "$4.99",
   // The agreement version people accept on this site (also shown on the EULA page).
-  eulaVersion: "1.1 (2026-10-10)",
+  eulaVersion: "1.2 (2026-10-14)",
   windowsDownload: "https://github.com/f3bandit/ss1_tool/releases/latest/download/SS1Tool.exe",
 };
 

diff --git a/README.md b/README.md
@@ -3,7 +3,7 @@
 Website for SS1 Tool for Windows and SS1 Tool for Android: https://ss1-tools.github.io
 
 - Page content is in `pages/`; the shared header and footer are added by `python3 tools/build.py`, which writes the pages at the top level. Commit both.
-- Settings (Lemon Squeezy checkout link, price, agreement version) are at the top of `assets/site.js`.
+- Settings (Google Play links, price, agreement version) are at the top of `assets/site.js`.
 - Legal pages: `pages/legal/` (EULA, privacy, refunds). When the EULA changes, raise `eulaVersion` in `assets/site.js` and the version in the apps.
 
 This repo holds only the website. The apps' source is not here.
